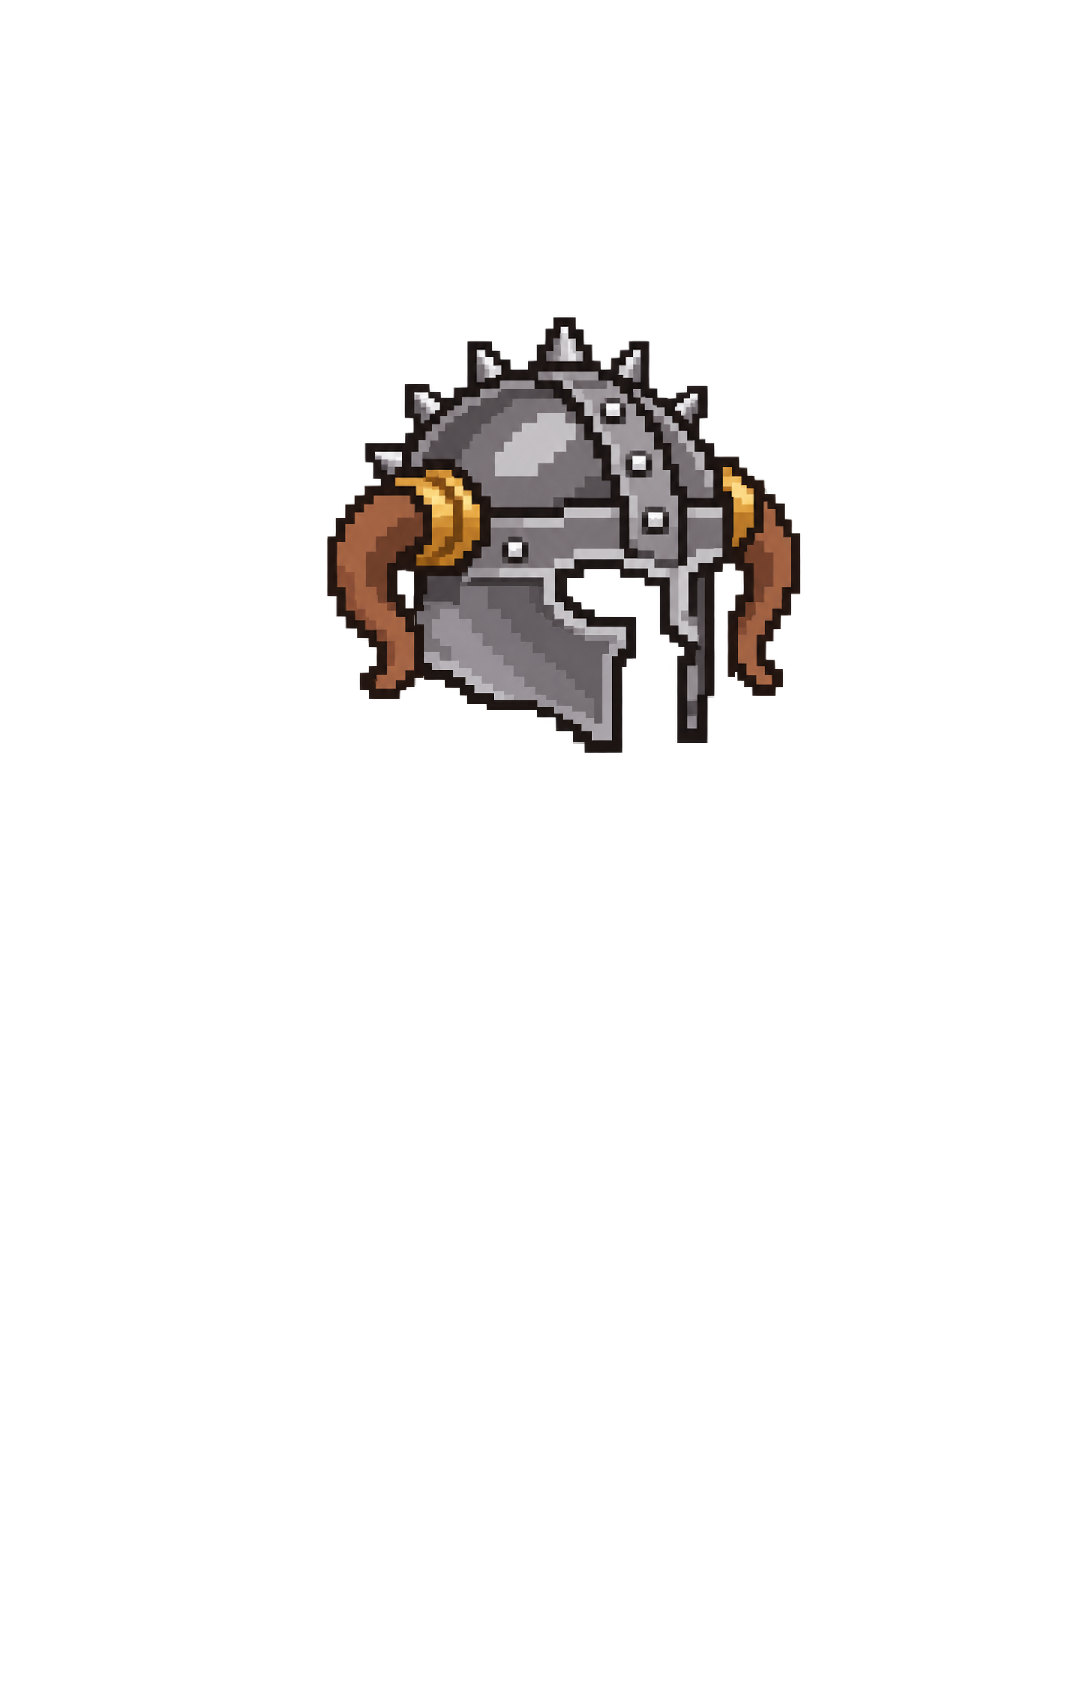
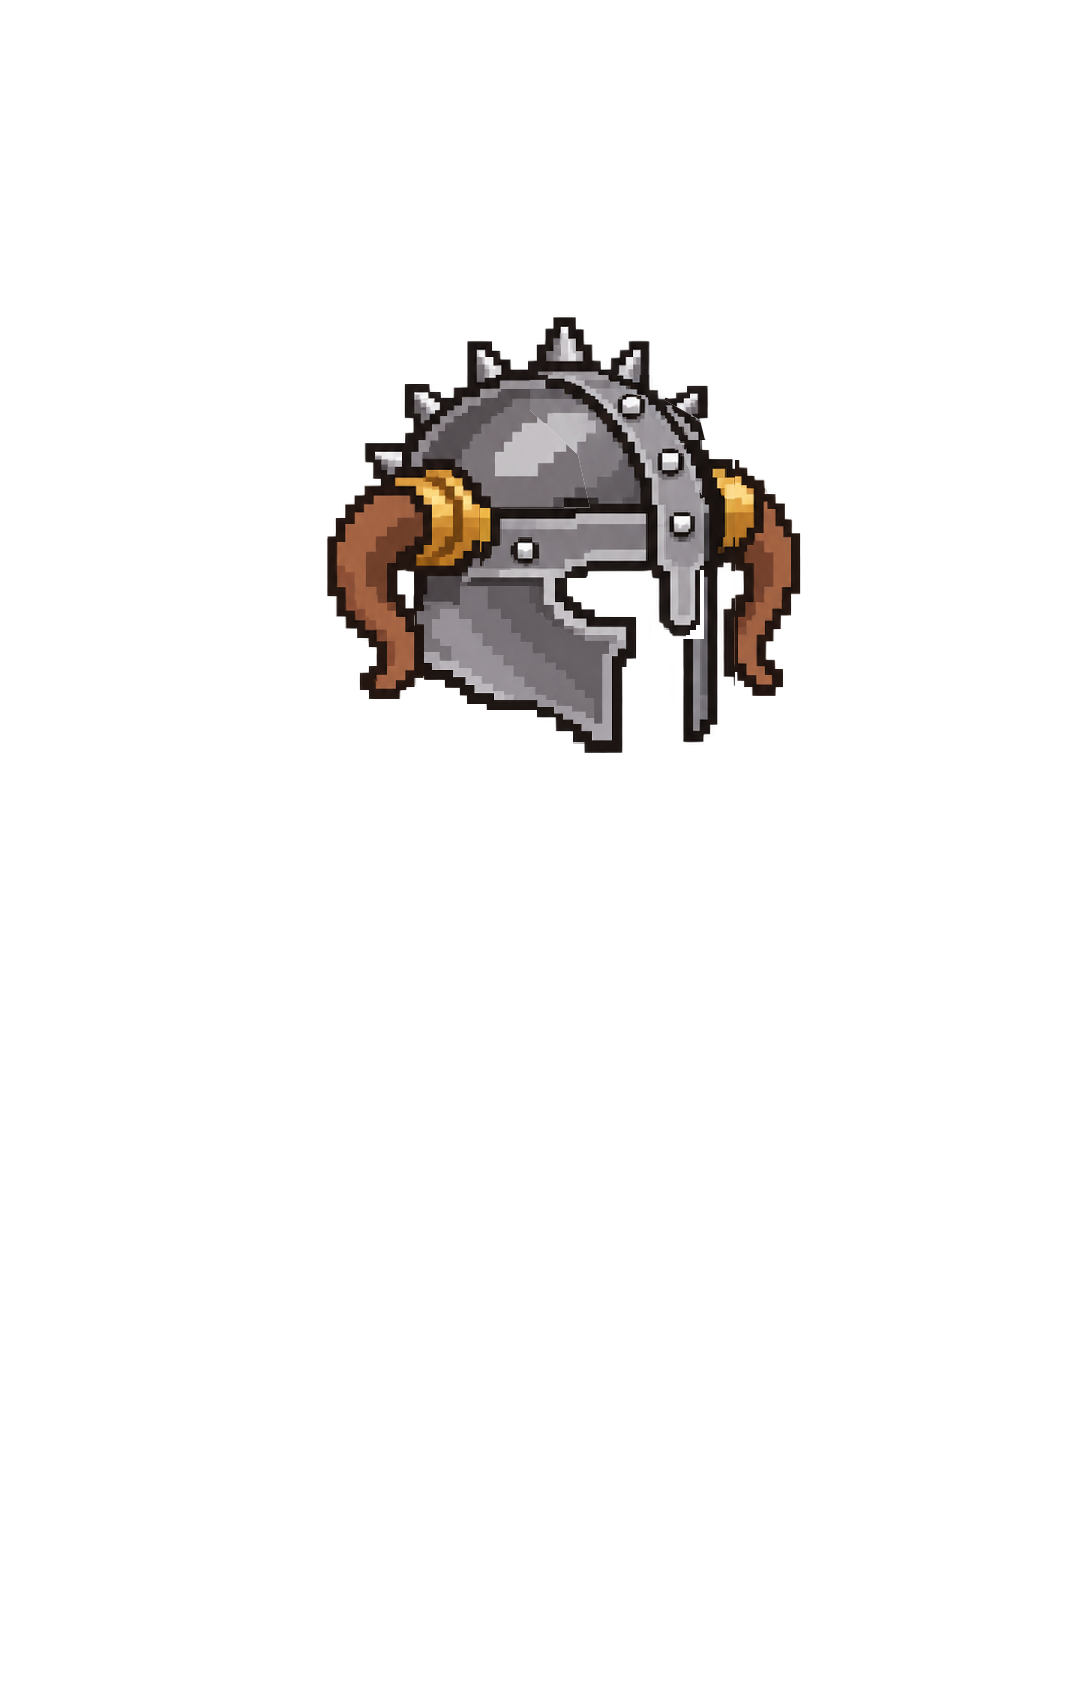
fix: 銀角兜の鼻当てと縦帯を整えた採用画像を登録 (#148)

Changed region(s): [[0.4254, 0.2172, 0.6989, 0.4344]]

diff --git a/docs/01_ゲーム企画・基本設計書.md b/docs/01_ゲーム企画・基本設計書.md
@@ -16,7 +16,8 @@
 - 着脱版の保存対象は人物と兜を合成した1086×1708の透過PNG。兜なしも同じキャンバスで、飾りが収まるよう上側に260pxの余白を持つ。
 - 着脱版の金・一本角は、採用した短い角と、銀・角付きに合わせた頭部サイズ・その後の約4%拡大を反映する。黒・赤は一本角の帽体・顔の覆いを基準に整えた承認済みパーツと高い赤い鶏冠を使い、鼻当てがまっすぐな形を採用する。
 - 着脱版の銀・角付き／金・一本角／黒・赤い鶏冠は、銀・青緑を目安に顎当ての下端を顎先より少し下へ出す。銀・角付きと金・一本角の頭部サイズ・共通人物は維持する。黒・赤は後述の #143 の承認済み調整を適用する。金・一本角の角先、および銀・角付きと金・一本角の襟足は、次項の承認済み調整を適用する。元の画像切替版は別の全身素材を使う。
-- 着脱版の銀・角付きは耳と襟足を広く覆い、頬から襟足まで継ぎ目のない銀板としてつなげる。金・一本角は襟足の覆いと外へ反った縁を低い位置に置き、縁を浅くして襟足側の濃い茶色を抑える。角先は画像の右へ少し曲げる。着用時の後ろ髪は他の兜と同様に非表示とする。どちらも承認済みのパーツを使用し、頭部サイズ・顔の開口部・共通人物を維持する。
+- 着脱版の銀・角付きは耳と襟足を広く覆い、頬から襟足まで継ぎ目のない銀板としてつなげる。金・一本角は襟足の覆いと外へ反った縁を低い位置に置き、縁を浅くして襟足側の濃い茶色を抑える。角先は画像の右へ少し曲げる。着用時の後ろ髪は他の兜と同様に非表示とする。どちらも承認済みのパーツを使用し、頭部サイズ・共通人物を維持する。銀・角付きの鼻当て・縦帯と顔まわりは次項の調整を適用する。
+- 着脱版の銀・角付きは、鼻当ての先をまっすぐにし、その位置に頭頂から続くリベット付き縦帯を合わせる。右側の重複輪郭・継ぎ目と額の点を除去した承認済みパーツを使う。右側の黒い陰影は薄くする前の案を採用し、角・頬当て・人物のバランスを保つ。
 - 着脱版の黒・赤い鶏冠は、一本角に近い帽体・頬当て・鼻当ての釣り合いへ調整した承認済みパーツを使う。
 - 全6兜で後ろ髪と髪の根元の補正を描かず、人物素材に残っていた襟足側の髪片も共通の装備時人物画像から除去済みとする。首・肩の形と体格、兜の意匠は保持する。兜なしと半透明比較は従来どおり元の顔と髪型を使用する。
 - サイズ比較ページは基準の顔と各兜の顔周りを同じ座標・倍率で並べる。通常表示と元の顔への半透明表示、頭頂・額・後頭部・耳側・鼻先・目・顎・兜の端の基準線のON/OFFを切り替えられる。ラベル文字のON/OFFは別に切り替えられ、初期表示では線・文字ともに表示する。線を隠すと文字も隠れて文字切替を無効にし、線を再表示したときは文字の選択状態を保つ。ラベルは「頭頂」「額」「後頭部」「耳側」「鼻先」「目」「顎」「兜の端」とし「（目安）」を付けない。「後頭部」「耳側」「鼻先」「兜の端」の文字は、画像上端の対応する縦線の位置に沿って左からこの順に置く。文字が画像に重ならないよう上側にラベル欄を設け、小さな枠でははみ出さず折り返す。文字や線の非表示時も上側欄の高さを保ち、画像の上下位置を変えない。基準線は表示サイズによらず一定の太さで重ねる。頭頂は髪を含む目安。額の横線は目から顎までと同じ距離だけ目の上に、後頭部の縦線は比較枠の左端と耳側の線の中間に置く。兜の端の縦線は、鼻先から比較枠右端までを3等分した鼻先寄りの位置に置く。いずれも補助的な目安で、実際の頭蓋骨の輪郭を確定するものではない。線は兜ごとに動かさない。
@@ -54,11 +55,14 @@
 - 2026-11-21：指定画像に合わせ、縦線4種のラベルを画像上端の対応位置へ移す（#141）。線の座標・画像・文字の表示切替は維持する。型検査・ビルド、全7枠の4ラベル、320〜1280pxの10幅と拡大文字、8通りの表示状態、全56線の実座標と保存PNGの維持を確認。レビュー・公開結果は対応Issueに記録する。
 - 2026-11-21：黒・赤い鶏冠の帽体・頬当て・鼻当てを一本角との比較で調整し、承認済みの後ろ髪なしの姿を着脱版へ登録する（#143）。鼻当てを曲げた案は取り消し、まっすぐな形を採用。共通の合成で比較ページ・保存PNGにも反映する。型検査・通常/Pages用ビルド、全7状態の保存、全6兜の通常/透過比較、基準線・狭い画面・読込失敗/復帰を確認した。黒赤の保存PNGは承認画像と全画素一致。公開URLでの反映はマージ後に確認する。
 - 2026-11-21：全6兜の着用時の後ろ髪を非表示に統一する（#146）。装備時の共通人物へ髪片除去を焼き込み、元の首・肩の輪郭を保持し、金・一本角の髪の根元を重ねる処理も使わない。着脱版・比較ページの通常表示・保存PNGが対象で、兜なしと元の顔への透過比較、元の全身画像切替版は維持する。人物の髪片除去を元の首・肩の輪郭へなじませ、補正境界と範囲外の画素一致を確認。全7状態の保存PNG・全6兜の通常/透過比較が期待合成と全画素一致し、6種の後ろ髪なし・首肩保持を目視確認した。型検査・通常/Pages用ビルド、読込失敗/再試行・高速切替・390px表示・56基準線を確認済み。公開URLでの反映はマージ後に確認する。
+- 2026-11-22：銀・角付きの鼻当てと縦帯の軸を整え、右側輪郭と額の点を整理した承認済みパーツを登録する（#148）。陰影を薄くした案は採用せず、整理後の濃い陰影を保持。着脱版・比較ページ・保存PNGとサムネイルへ反映する。採用元とのパーツ一致、全7状態の保存と全6兜の通常/透過比較、サムネイル・56基準線・390px・読込失敗/再試行・通常/Pages用ビルドを確認済み。公開URLはマージ後に確認する。
 - 戦闘の構想や承認履歴は過去資料とGit履歴に保存する。現行の装備室の制約や次の作業として自動的に引き継がない。将来戦闘を再開する場合は、その時点で参照する。
 
 ## 14. 現在の状態と次の検討
 
-- #146 で全6兜の着用時の後ろ髪を非表示に統一する。ユーザー指定の対象は着脱版・比較ページだけ。元の全身画像切替版・兜なし・元の顔を使う半透明比較を維持する。全候補の保存・比較・読込失敗/再試行・高速切替・390px表示・通常/Pages用ビルドを確認済み。公開URLへの反映は未確認（PR未マージ）。レビューと公開後の確認は対応Issueへ記録する。
+- #148 の鼻当て・縦帯と右側輪郭・額の点を整理した銀・角付き兜を承認済み。陰影を薄くする前のパーツを採用し、着脱版・比較ページ・保存へ登録する。採用画像との一致、全候補の保存・通常/透過比較・失敗/再試行・390px・通常/Pages用ビルドを確認済み。公開URLは未確認（PR未マージ）。レビューと公開確認は対応Issue・PRに記録する。
+
+- #146 で全6兜の着用時の後ろ髪を非表示に統一する。ユーザー指定の対象は着脱版・比較ページだけ。元の全身画像切替版・兜なし・元の顔を使う半透明比較を維持する。全候補の保存・比較・読込失敗/再試行・高速切替・390px表示・通常/Pages用ビルドを確認済み。PR #147 はマージ・公開反映の確認済み。レビューと公開確認は対応Issueへ記録する。
 
 - #143 の黒・赤い鶏冠は、鼻当ての微調整を取り消した兜と、後ろ髪なしの着用をユーザー承認済み。着脱版・比較ページ・保存へ登録する。登録時の全7状態の保存・通常/透過比較・失敗/再試行・狭い画面・通常/Pages用ビルドと、黒赤の保存PNGの承認画像一致を確認済み。PR #144 はマージ済みで公開反映も確認済み。現在の着用は #146 の共通人物の輪郭保持を適用する。レビュー・公開後の確認は対応IssueとPRに記録する。
 
